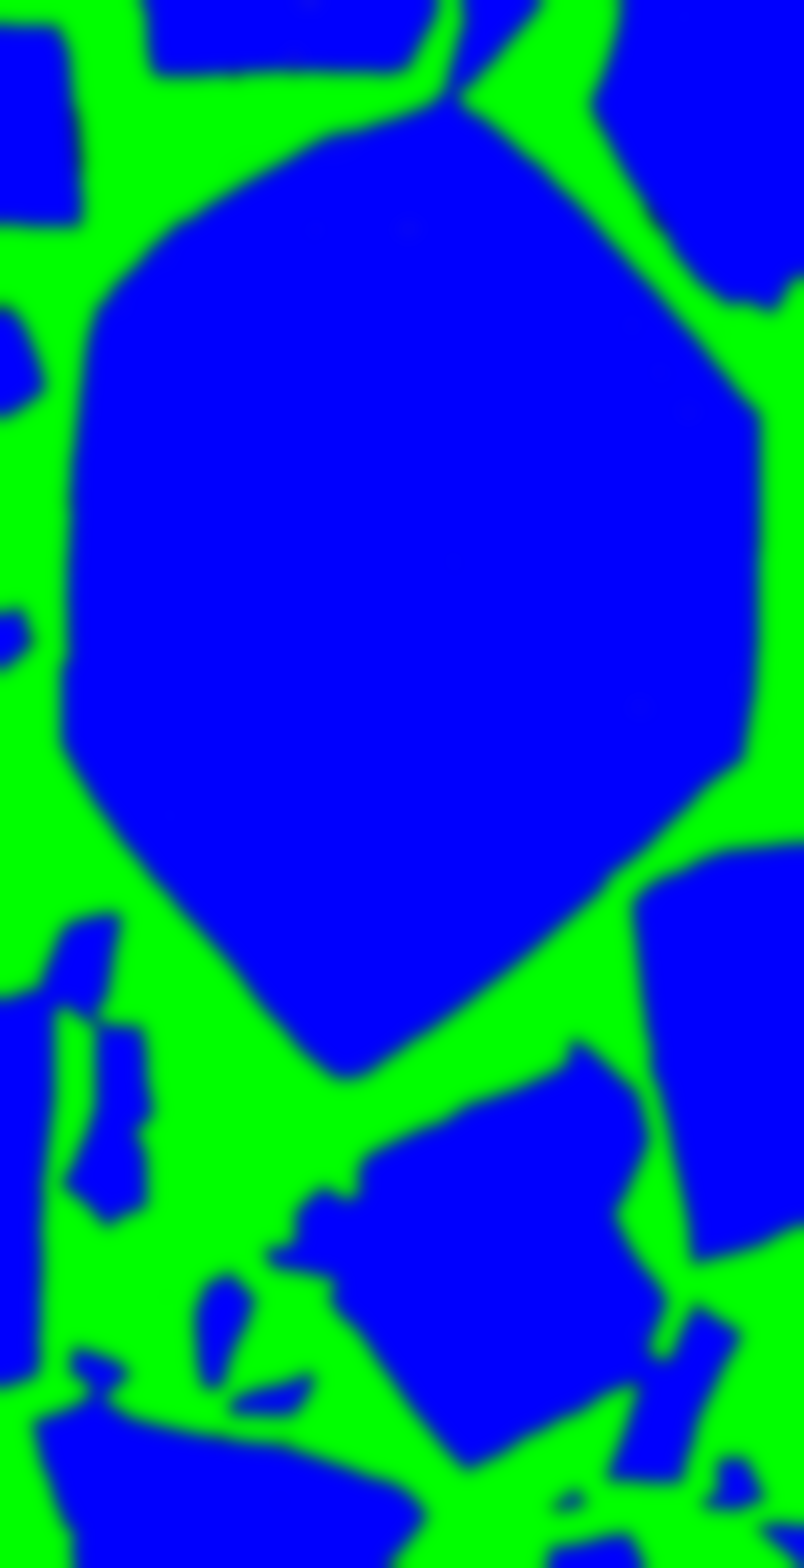
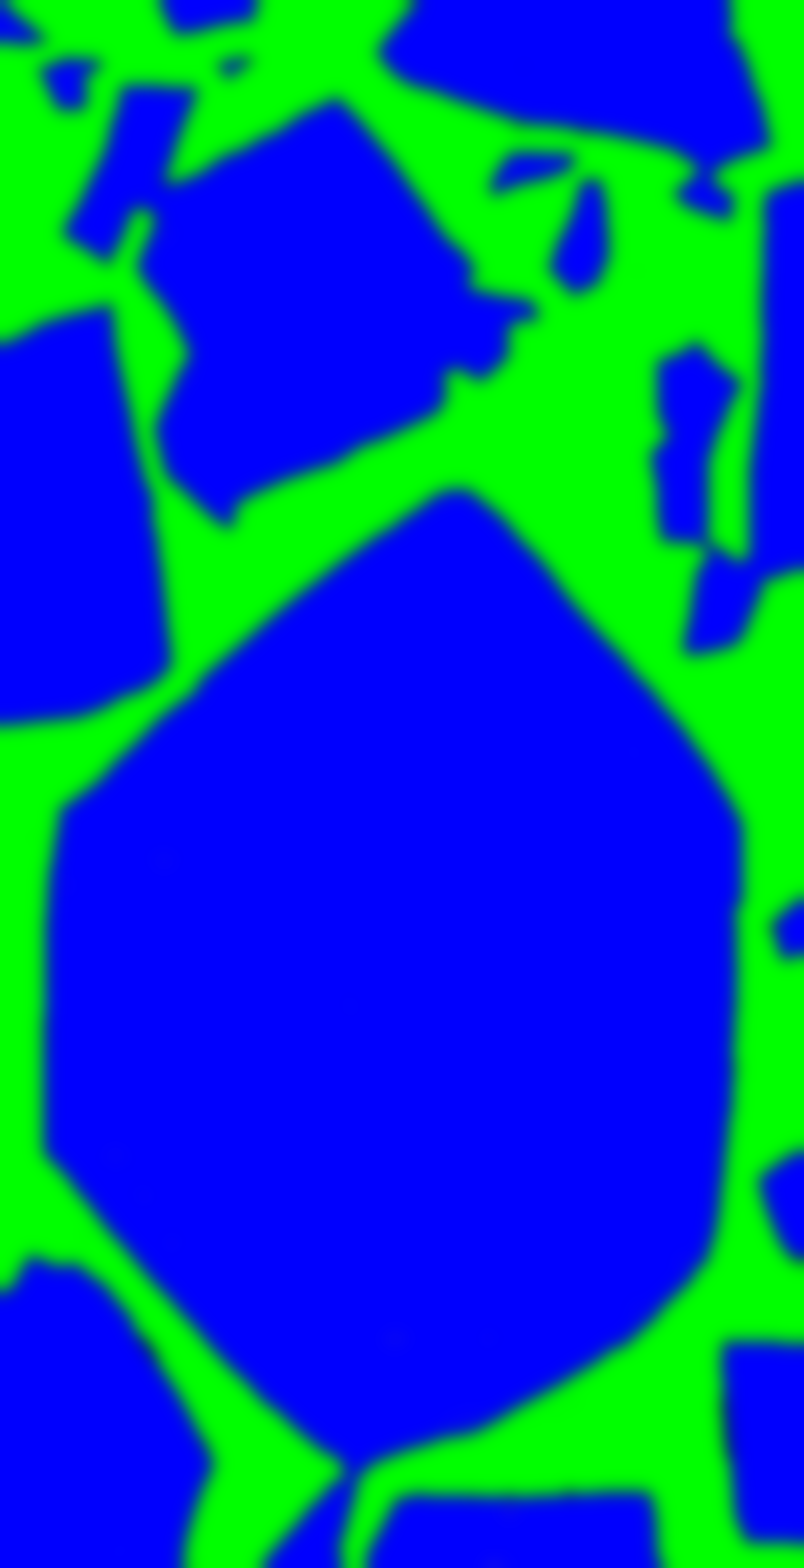
trying to get neohookean working

diff --git a/src/Integrator/Fracture.H b/src/Integrator/Fracture.H
@@ -51,7 +51,7 @@
 #include "Model/Interface/Crack/PFCZM.H"
 #include "Model/Solid/Linear/Isotropic.H"
 
-#include "Model/Solid/Finite/NeoHookeanPredeformed.H"
+#include "Model/Solid/Finite/NeoHookean.H"
 
 #include "BC/Constant.H"
 #include "IC/BMP.H"
@@ -71,8 +71,8 @@
 
 namespace Integrator
 {
-using brittle_model = Model::Solid::Linear::Isotropic;
-// using brittle_model = Model::Solid::Finite::NeoHookeanPredeformed;
+// using brittle_model = Model::Solid::Linear::Isotropic;
+using brittle_model = Model::Solid::Finite::NeoHookean;
 using pfczm_crack_type = Model::Interface::Crack::PFCZM;
 
 class Fracture : virtual public Base::Mechanics<brittle_model>